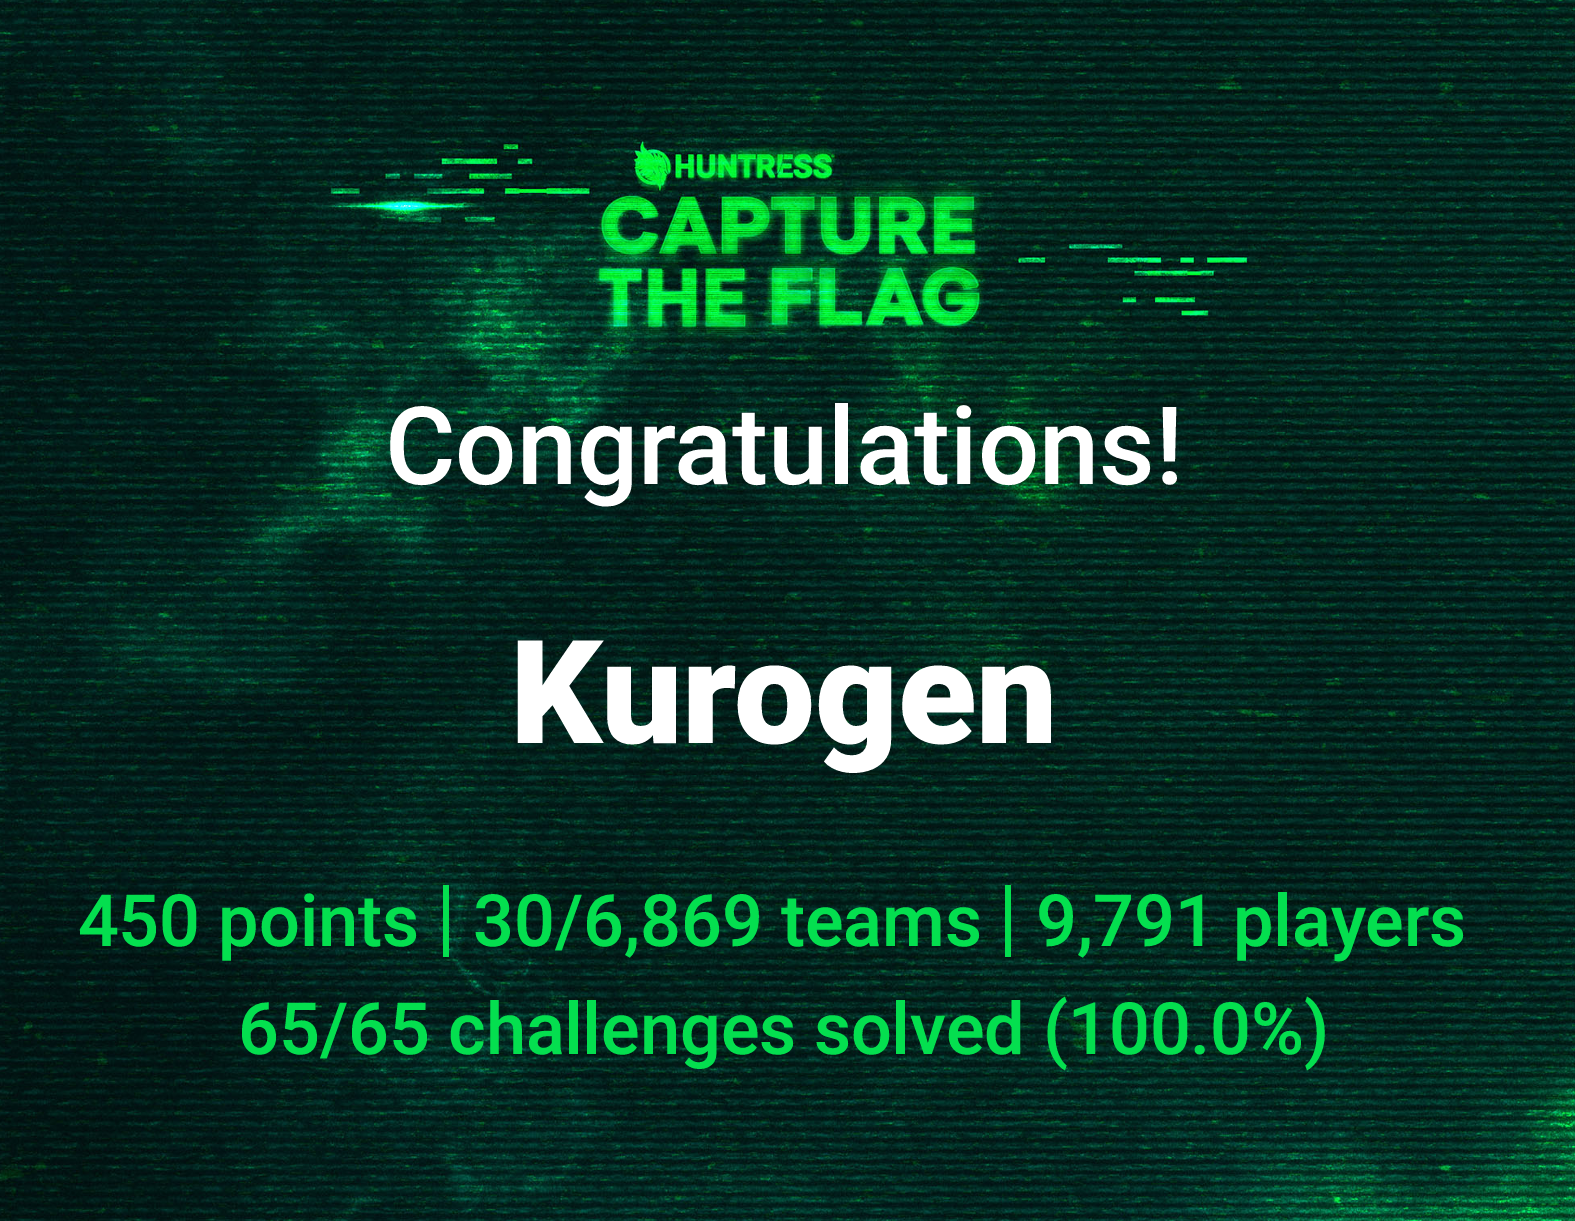
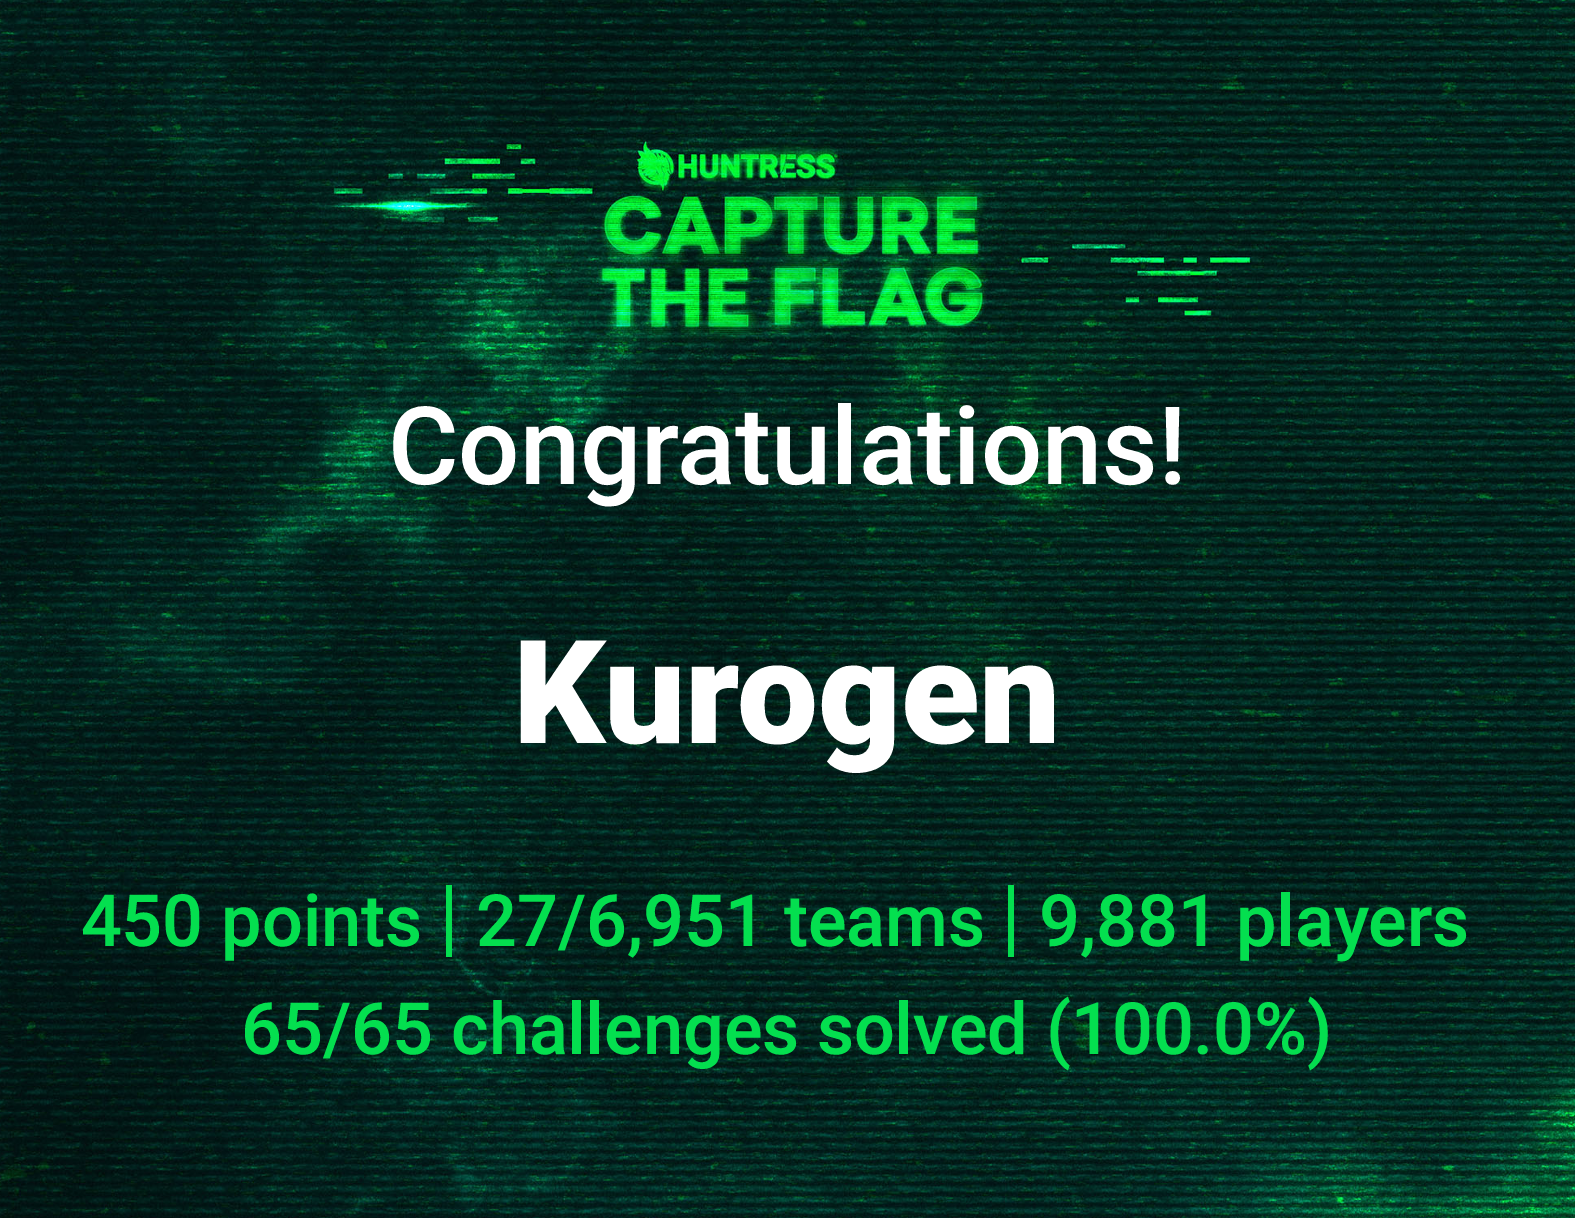
Updated Huntress final score

diff --git a/README.md b/README.md
@@ -2,7 +2,7 @@
 
 | Year | Event Name | Team Name | Ranking |
 | ---- | ---------- | --------- | ------- |
-| 2025 | [Huntress CTF 2025](2025/Huntress_CTF_2025/readme.md) | Kurogen | 30th of 6,869 |
+| 2025 | [Huntress CTF 2025](2025/Huntress_CTF_2025/readme.md) | Kurogen | 27th of 6,869 |
 | 2025 | [Holmes CTF 2025](2025/Holmes_CTF_2025/readme.md) | RedRavens | 2608th of 7,085 |
 | 2025 | [Ghost in the source](2025/Ghost_in_the_source/readme.md) | N/A | N/A |
 | 2025 | [NahamCon CTF 2025](2025/NahamConCTF/readme.md) | OwlSec | 17th of 2,994 |
